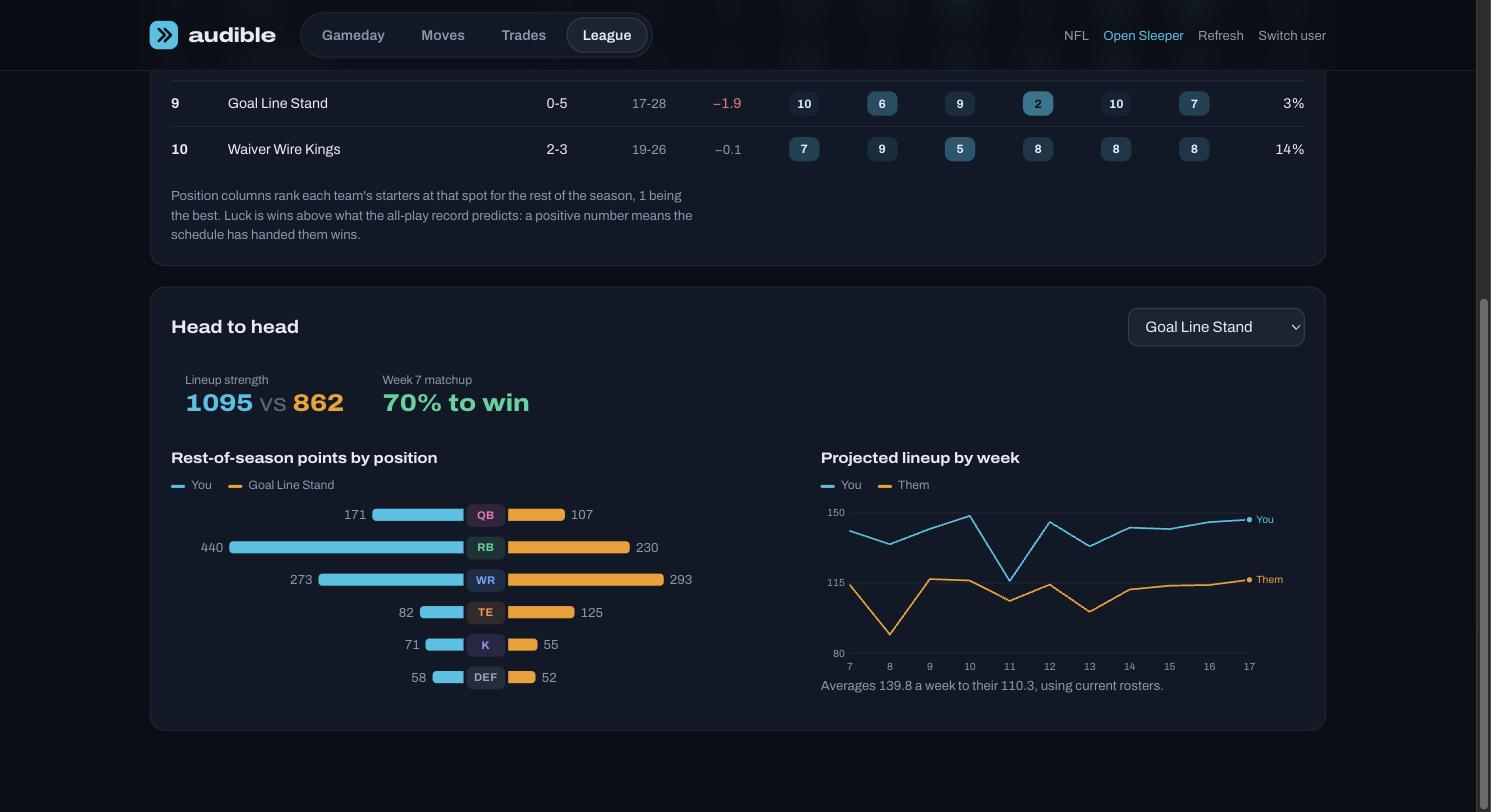
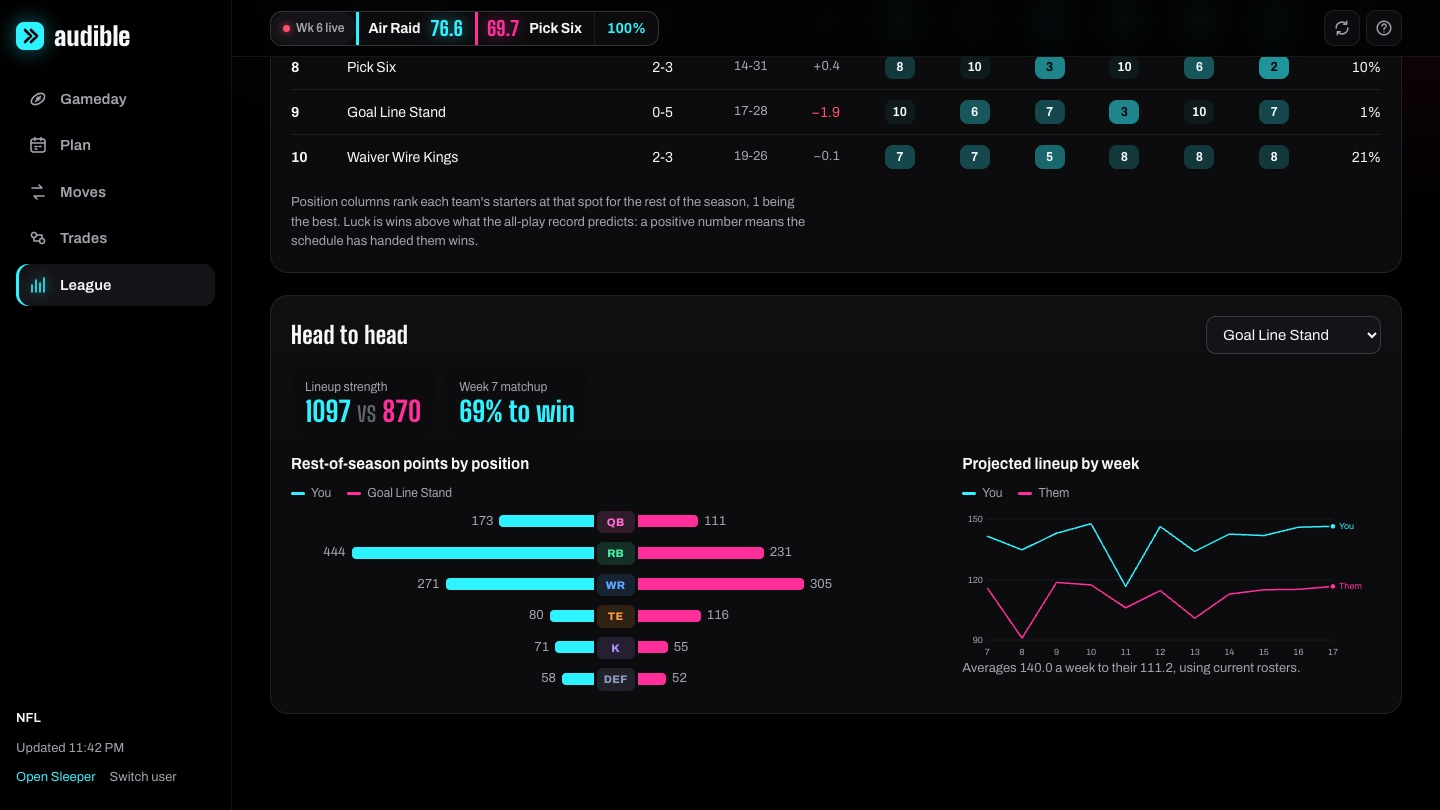
Update docs and screenshots for the redesign

diff --git a/docs/GUIDE.md b/docs/GUIDE.md
@@ -3,7 +3,7 @@
 What every number means and how it's worked out. All points are in your league's own
 scoring. The short version, with your league's rules, is under **Help** in the app.
 
-**Shortcuts:** `1`–`4` switch tabs, `R` refreshes from Sleeper, `?` opens Help, `Esc`
+**Shortcuts:** `1`–`5` switch tabs, `R` refreshes from Sleeper, `?` opens Help, `Esc`
 closes it.
 
 ## Gameday
@@ -25,8 +25,10 @@ projection, and flags byes, injured starters and better bench options. Players w
 game has already kicked off are locked, so they're left out.
 
 **Best lineup.** The highest-projected legal lineup for the next week you can still
-change. The range under the title covers a typical week, one standard deviation either
-side.
+change, one card per starter with your bench underneath. The range under the title
+covers a typical week, one standard deviation either side, and the bar on each card
+shows that player's range. Click or tap a card (or its corner button) to flip it for
+the details:
 
 - **Sleeper / ESPN:** each source's projection. Sleeper's is the one Audible uses.
 - **Sources split:** the two disagree by 20% or more. Those players have been less
@@ -36,12 +38,22 @@ side.
 - **Team total:** the points Vegas expects that player's team to score. It appears
   once sportsbooks post the week's lines, usually early in the week.
 
-**Win chances.** Your odds in every remaining regular-season game.
+## Plan
 
-**Bye weeks.** Every remaining week where someone on your roster is on bye, from the
-NFL schedule. Bold names are usual starters, judged by their average projection. A week
-is **short** when nobody left on your roster can fill a lineup slot: fix it with a
-pickup or trade before then. The best lineup also notes each starter's upcoming bye.
+**Week by week.** A card for every week left, with your odds against that week's
+opponent and your projected lineup. Audible walks the season in order and, each week,
+makes the pickups that week needs: a free agent who fills a slot nobody on your roster
+can play (usually a bye), or a kicker or defense with a clearly better matchup. A move
+has to add at least 2 points that week and can't cost more later than it gains now.
+At most two moves a week. Each move carries into the weeks after it, so the drop is
+gone for good. Flip a week for its moves, who's on bye, and the lineup before and after.
+
+A week is **short** when nobody on your roster can fill a lineup slot. "Still short"
+means no free agent fixes it either: that needs a trade.
+
+**Your move list.** Every planned move in order, with what it adds that week. The plan
+assumes today's free agents are still there when you need them, so recheck it after
+each waiver run.
 
 ## Moves
 
@@ -75,9 +87,13 @@ more of theirs, or sending a lesser player instead. It keeps those that gain you
 least 2 points without costing them more than 2, sorted by what they gain. Click one
 to load it.
 
-**Trades both sides should take.** Every 1-for-1 through 2-for-2 deal with each team,
-kept only if *both* starting lineups improve, sorted by the smaller of the two gains.
-Those are the deals another manager has a reason to accept.
+**Trade partners.** One card per team. "They can help at" lists positions where
+they rank in the top 30% of the league and you don't; "You can help at" is the reverse.
+A **two-way fit** has both, and those teams come first. The big number is your gain in
+the best deal with them. Flip a card for up to two deals: every 1-for-1 through 2-for-2
+trade, kept only if *both* starting lineups improve, sorted by the smaller of the two
+gains. Those are the deals another manager has a reason to accept. **Show before and
+after** opens the full comparison.
 
 ## Before and after
 

diff --git a/README.md b/README.md
@@ -17,13 +17,17 @@ you the move and you make it in Sleeper.
 
 | Tab     | What you get                                                                                               |
 | ------- | ---------------------------------------------------------------------------------------------------------- |
-| Gameday | This week's matchup and win odds, a lineup check, your best lineup, injury report, bye weeks, news on your players |
+| Gameday | This week's matchup and win odds, a lineup check, your best lineup as flip cards, injury report, news on your players |
+| Plan    | Every remaining week with your odds, and the pickups each one needs for byes and streaming, as one move list |
 | Moves   | Waiver pickups ranked by what they add to your lineup, defense and kicker streaming by matchup             |
-| Trades  | Review any offer (accept, counter or decline, with reasons and counteroffers), plus deals that help both teams |
+| Trades  | Trade partners sized up by what each side has and lacks, with deals that help both, plus offer review (accept, counter or decline, with reasons and counteroffers) |
 | League  | Power rankings, position-by-position ranks, all-play records and luck, playoff odds, head-to-head compare |
 
 **Help** in the top bar (or `?`) shows your league's rules, keyboard shortcuts and what
-each number means. `1`–`4` switch tabs and `R` refreshes.
+each number means. `1`–`5` switch tabs and `R` refreshes. Cards flip: click or tap one
+for the details behind its number.
+
+![The Plan tab: a flip card for every week left, and the pickups each one needs](docs/plan.jpg)
 
 Got a trade offer? Enter it under **Review an offer**: Audible gives a verdict, says
 why (points gained, where you'd rank at each position, the week it hurts most, injury

diff --git a/CONTRIBUTING.md b/CONTRIBUTING.md
@@ -21,6 +21,8 @@ src/core/     plain TypeScript, shared by the web app and the CLI
   trades.ts     trade search   sim.ts        win and playoff odds
   review.ts     offer verdicts, reasons and counteroffers
   compare.ts    power rankings scenario.ts   before and after
+  plan.ts       week-by-week roster plan
+  partners.ts   trade partner fit
 src/ui/       the React app, one file per tab plus shared pieces
 cli/          the terminal report and trade grader
 tests/        bun tests against small hand-built leagues
